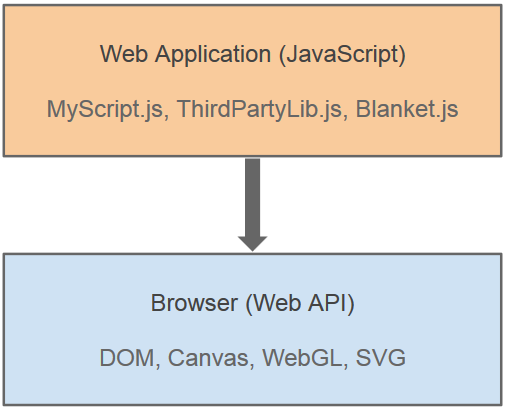
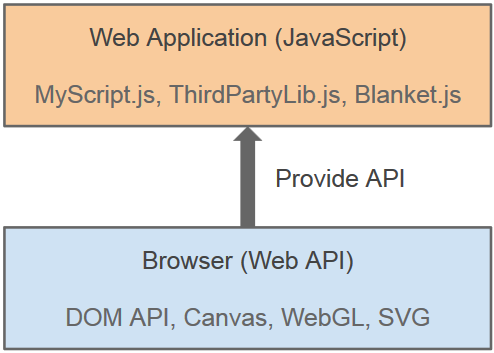
Update slide

diff --git a/index.html b/index.html
@@ -269,14 +269,12 @@ require(["path-to/script.js"], function() {
           </section>
 
           <section>
-            <h2>API structure</h2>
+            <h2>Web application &amp; Web API</h2>
             <img src="assets/api-structure.png" alt="api structure"></img>
           </section>
 
           <section>
             <h2>DOM modification API</h2>
-            <p>Overwrite native appendChild / insertBefore / replaceChild</p>
-            <br>
             <pre><code data-trim contenteditable>
 var originalAppendChild = Element.prototype.appendChild;
 
@@ -289,8 +287,6 @@ Element.prototype.appendChild = function(newElement) {
 
           <section>
             <h2>XHR API</h2>
-            <p>Overwrite native open method in XHR object</p>
-            <br>
             <pre><code data-trim contenteditable>
 var originalXHROpen = XMLHttpRequest.prototype.open;
 
